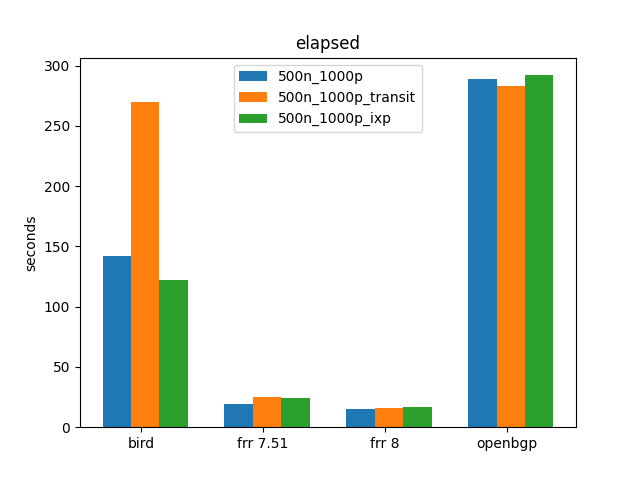
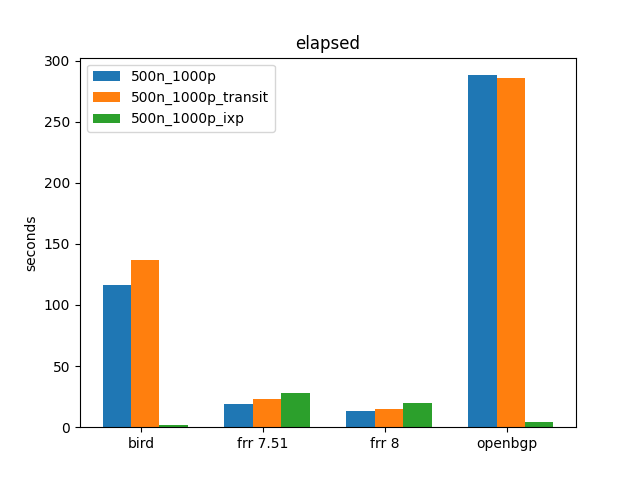
updated with new data from BIRD-generator tests

diff --git a/_drafts/2021-11-102-bgperf-first-try-at-filtering.md b/_drafts/2021-11-102-bgperf-first-try-at-filtering.md
@@ -29,7 +29,11 @@ We'll start with internet routes using bgpdump2 playing back mrt data from [Rout
 
 There are several things to notice, some we'll discuss later in this post. First off, for the most part, the "transit" filter takes more time than the non-filtered run. This is because it does go through the filters, but it doesn't filter many prefixes. Since these are from real internet peers, there are not a lot of prefixes that you'd want to filter. The "ixp" filter on the other hand does filter more prefixes out, so there is less total elapsed time because there are less prefixes being considered.
 
-I've added a new graph ![internet routes monitor](/assets/images/2021-11-bgp-6/bgperf_filter-bgpdump_monitor_prefixes.png) to show the amount of prefixes that end up at the monitor container. We'll discuss this below, but notice that for the same filters, different NOSes have different number of prefixes that get to the monitor.
+For now, ignore that rustybgp is missing data for the "ixp" filter. I'll address that below.
+
+I've added a new graph ![internet routes monitor](/assets/images/2021-11-bgp-6/bgperf_filter-bgpdump_monitor_prefixes.png) 
+
+This shows the amount of prefixes that end up at the monitor container. We'll discuss this below, but notice that for the same filters, different NOSes have different number of prefixes that get to the monitor.
 
 The other thing to notice is that the "transit" filter doesn't filter very much and the "ixp" filter does, which explains the elapsed time differences.
 
@@ -52,10 +56,10 @@ Of course, you have to match traffic with filters to see if they work.
 As far as I can tell, the filters for BIRD, FRRouting and OpenBGPD should be the same, so why are there different amounts of prefixes filtered? I have no idea. Please tell me if I'm dong something wrong.
 
 To look at the filters used:
-* [BIRD](https://github.com/jopietsch/bgperf/blob/4eeee0419bff086a39345d4f4b42eb7509351236/filters/bird.conf)
-* [FRRouting](https://github.com/jopietsch/bgperf/blob/4eeee0419bff086a39345d4f4b42eb7509351236/filters/frr.conf)
-* [OpenBGPD](https://github.com/jopietsch/bgperf/blob/4eeee0419bff086a39345d4f4b42eb7509351236/filters/openbgp.conf)
-* [RustyBGPD](https://github.com/jopietsch/bgperf/blob/4eeee0419bff086a39345d4f4b42eb7509351236/filters/rustybgpd.conf)
+* [BIRD](https://github.com/jopietsch/bgperf/blob/490452fe947c94f9eb87e4f45bb789514f6e11b1/filters/bird.conf)
+* [FRRouting](https://github.com/jopietsch/bgperf/blob/490452fe947c94f9eb87e4f45bb789514f6e11b1/filters/frr.conf)
+* [OpenBGPD](https://github.com/jopietsch/bgperf/blob/490452fe947c94f9eb87e4f45bb789514f6e11b1/filters/openbgp.conf)
+* [RustyBGPD](https://github.com/jopietsch/bgperf/blob/490452fe947c94f9eb87e4f45bb789514f6e11b1/filters/rustybgpd.conf)
 
 You might notice that I've commented out filtering of 0.0.0.0/8 and > /24 filtering. That is so that I could do the BIRD-generator tests with small number of prefixes. It generates prefixes in that range, so they'd all get removed which isn't interesting.
 
@@ -79,7 +83,7 @@ This is super helpful output that I wish all stacks would show: it comes from bi
       Export updates:          53161      53161          0        ---          0
       Export withdraws:            0        ---        ---        ---          0
 ```
-So what do I do about the stacks that don't have this information? I got a helpful type from Donald Sharp of FRRouting fame, FRRouting will show End-of-RIB in the log if you turn on debugging, so that's what I did for FRRouting. For OpenBGPD, it has an eor counter in it's output that I look for. For rustybgp it has a counter called accepted and received, but they show the same output, so I haven't figured out how to measure that. That's why rustybgp doesn't show data with IXP filters in the graphs above.
+So what do I do about the stacks that don't have this information? I got a helpful tip from Donald Sharp of FRRouting fame. FRRouting will show End-of-RIB in the log if you turn on debugging, so that's what I did for FRRouting. For OpenBGPD, it has an eor counter in it's output that BGPerf looks for. For rustybgp it has a counter called accepted and received, but they show the same output, so I haven't figured out how to measure that. That's why rustybgp doesn't show data with IXP filters in the graphs above; BGPerf has no way to know when the test has been finished successfully.
 
 Figuring out how to see that all the intended prefixes have been received at the target is a pain. 
 
@@ -89,5 +93,5 @@ lots of questions
 * what am I missing?
 If you have opinions about this, I'd rather see specific examples of filters than vague descriptions like what and IXP would use. 
 
-# 
+
 
